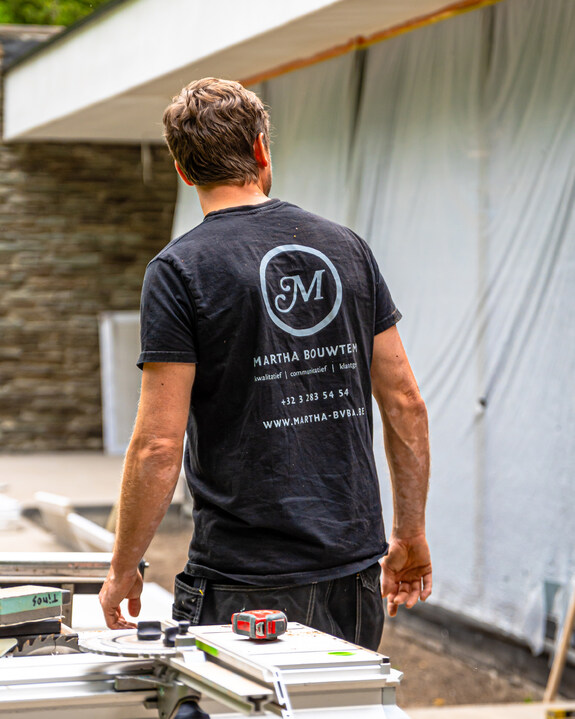
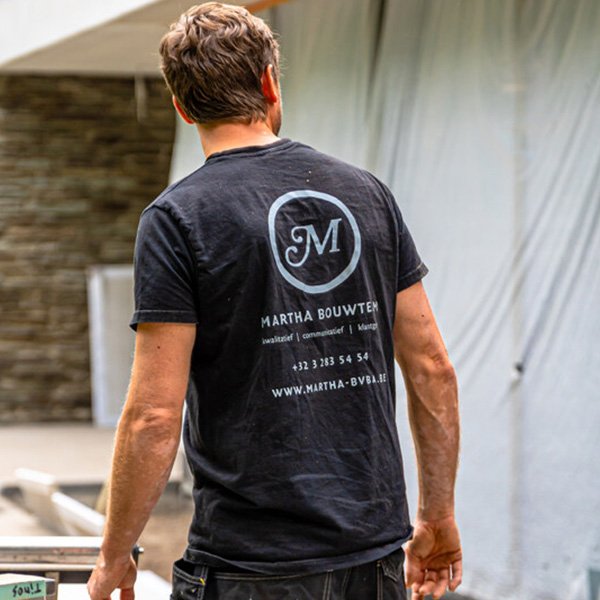
changes

diff --git a/diensten/bouwteam/index.html b/diensten/bouwteam/index.html
@@ -102,7 +102,7 @@
                     <img src="./img/image-2.jpg" alt="">
                 </div>
                 <div class="image-wrapper">
-                    <img src="./img/image-3.jpg" alt="">
+                    <img src="./img/banner.jpg" alt="">
                 </div>
             </div>
         </div>
